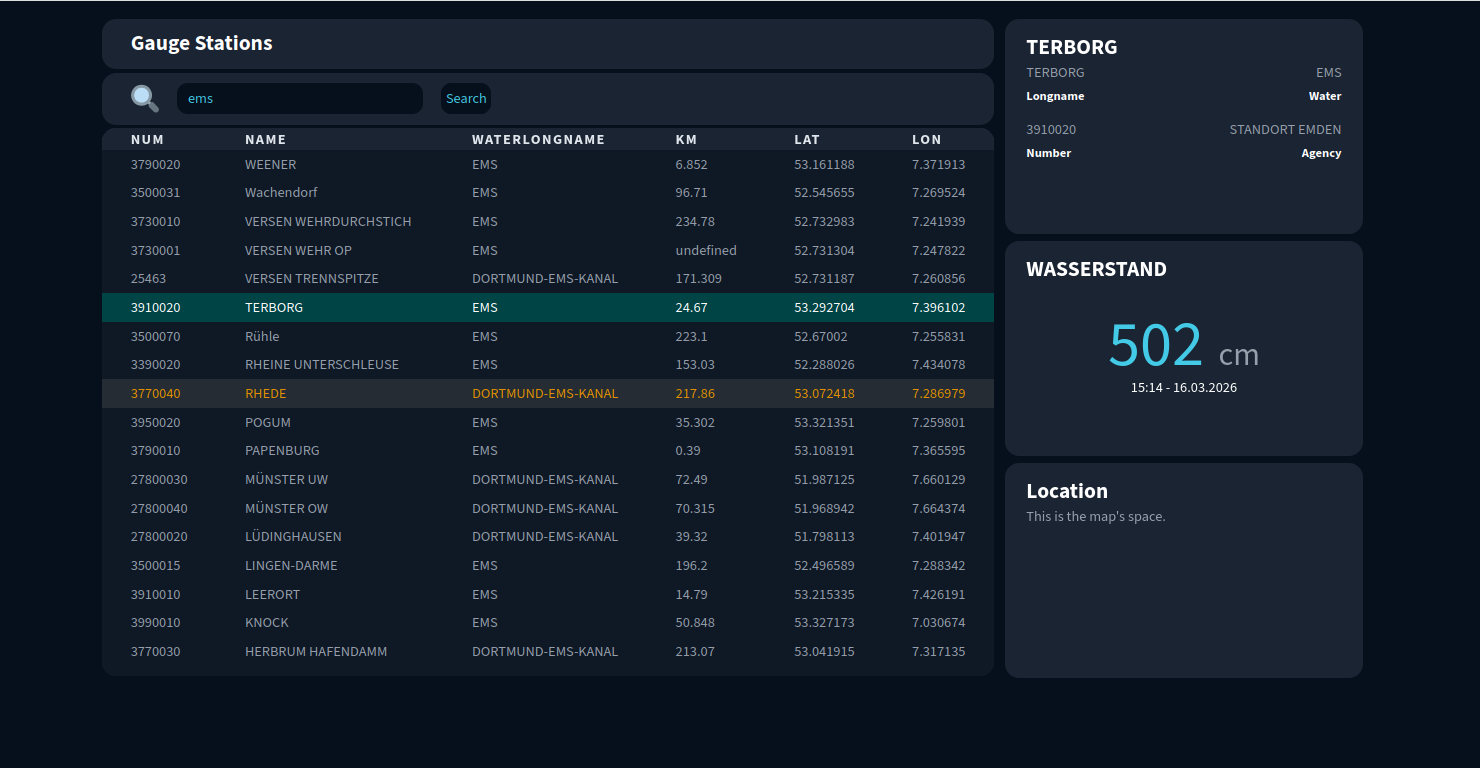
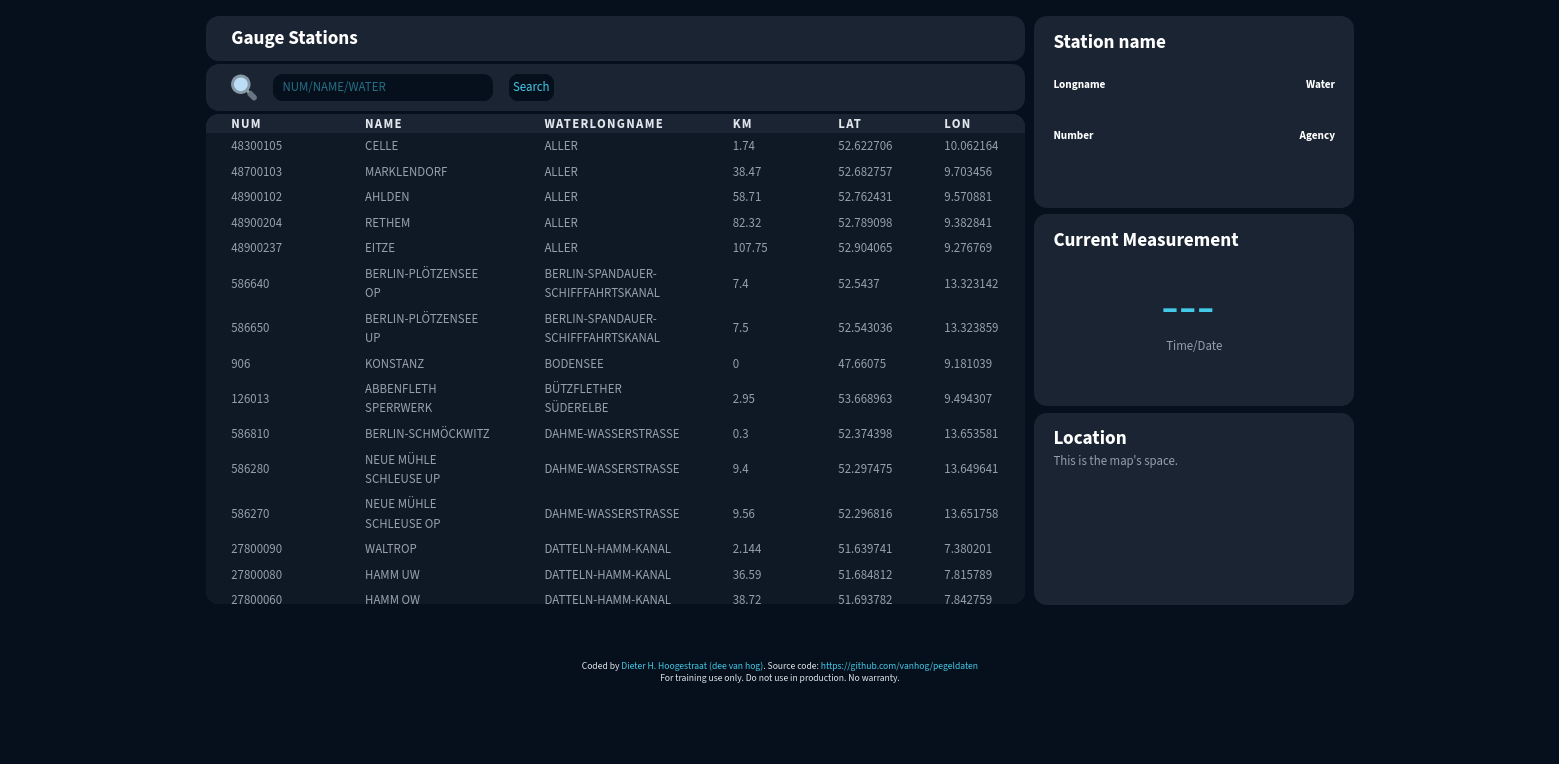
Disclaimer and Documentation update

diff --git a/dist/index.html b/dist/index.html
@@ -6,7 +6,7 @@
     <title>
       Hydrological Infrastructure Intelligence Dashboard - Training Project
     </title>
-    <link rel="stylesheet" href="./tw.css" />
+    <link rel="stylesheet" href="./styles/styles.css" />
   </head>
   <body class="hiid-body">
     <main class="flex flex-col justify-center items-center">
@@ -26,7 +26,7 @@
                 <div id="searchField" class="flex flex-row">
                   <label for="searchTerm" class="sr-only">Search</label>
                   <img
-                    src="./magnifying.svg"
+                    src="./assets/magnifying.svg"
                     class="w-8 inline me-5"
                     alt="Icon of a magnifying glass"
                   />
@@ -145,6 +145,23 @@
         </div>
       </div>
     </main>
-    <script type="module" src="./prod.js"></script>
+    <script type="module" src="/src/main.ts"></script>
+    <footer class="mt-12">
+      <h2 class="sr-only">Attributions</h2>
+      <div class="attribution mt-6">
+        Coded by
+        <a
+          href="https://github.com/vanhog"
+          target="_blank"
+          rel="noopener noreferrer"
+          >Dieter H. Hoogestraat (dee van hog)</a
+        >. Source code:
+        <a href="https://github.com/vanhog/pegeldaten"
+          >https://github.com/vanhog/pegeldaten</a
+        >
+
+        <p>For training use only. Do not use in production. No warranty.</p>
+      </div>
+    </footer>
   </body>
 </html>

diff --git a/dist/tw.css b/dist/tw.css
@@ -19,6 +19,8 @@
     --color-white: #fff;
     --spacing: 0.25rem;
     --container-5xl: 64rem;
+    --text-xs: 0.75rem;
+    --text-xs--line-height: calc(1 / 0.75);
     --text-sm: 0.875rem;
     --text-sm--line-height: calc(1.25 / 0.875);
     --text-base: 1rem;
@@ -51,9 +53,7 @@
     --color-hiid-text-primary: oklch(0.92 0.01 255);
     --color-hiid-text-muted: oklch(0.7 0.02 255);
     --color-hiid-text-glow: oklch(0.78 0.12 215);
-    --color-hiid-text-accent: oklch(
-    0.72 0.18 75
-  );
+    --color-hiid-text-accent: oklch(0.72 0.18 75);
   }
 }
 @layer base {
@@ -234,8 +234,17 @@
   .me-5 {
     margin-inline-end: calc(var(--spacing) * 5);
   }
+  .mt-6 {
+    margin-top: calc(var(--spacing) * 6);
+  }
+  .mt-12 {
+    margin-top: calc(var(--spacing) * 12);
+  }
   .mb-4 {
     margin-bottom: calc(var(--spacing) * 4);
+  }
+  .contents {
+    display: contents;
   }
   .flex {
     display: flex;
@@ -525,7 +534,16 @@
   }
   .current-measurement-time {
     text-align: center;
-    color: var(--color-white);
+    color: var(--color-hiid-text-muted);
+  }
+  .attribution {
+    text-align: center;
+    font-size: var(--text-xs);
+    line-height: var(--tw-leading, var(--text-xs--line-height));
+    color: var(--color-hiid-text-primary);
+  }
+  .attribution a {
+    color: var(--color-hiid-text-glow);
   }
 }
 @property --tw-border-spacing-x {

diff --git a/index.html b/index.html
@@ -146,5 +146,22 @@
       </div>
     </main>
     <script type="module" src="/src/main.ts"></script>
+    <footer class="mt-12">
+      <h2 class="sr-only">Attributions</h2>
+      <div class="attribution mt-6">
+        Coded by
+        <a
+          href="https://github.com/vanhog"
+          target="_blank"
+          rel="noopener noreferrer"
+          >Dieter H. Hoogestraat (dee van hog)</a
+        >. Source code:
+        <a href="https://github.com/vanhog/pegeldaten"
+          >https://github.com/vanhog/pegeldaten</a
+        >
+
+        <p>For training use only. Do not use in production. No warranty.</p>
+      </div>
+    </footer>
   </body>
 </html>

diff --git a/styles/styles.css b/styles/styles.css
@@ -70,6 +70,12 @@
   }
 
   .current-measurement-time {
-    @apply text-center text-white;
+    @apply text-center text-hiid-text-muted;
+  }
+  .attribution {
+    @apply text-xs text-center text-hiid-text-primary;
+  }
+  .attribution a {
+    @apply text-hiid-text-glow;
   }
 }

diff --git a/README.md b/README.md
@@ -1,5 +1,7 @@
 # Gauge Stations Dashboard (Pegeldaten)
 
+**For training use only. Do not use in production. No warranty.**
+
 This is a free-style training project created as part of the OpenCampus Web Development Program 2025.
 
 ## Table of contents
@@ -33,11 +35,11 @@ The application should be able to:
   - Current measurements in a second drawer
 - Reserve a third drawer for future map integration
 - Provide search functionality across:
- 	 - short name
-  	- long name
-  	- water short name
-  	- water long name
-  	- station number
+  - short name
+    - long name
+    - water short name
+    - water long name
+    - station number
 
 ### Screenshot
 
@@ -45,7 +47,7 @@ The application should be able to:
 
 ### Links
 
-- Solution URL: https://github.com/vanhog/pegeldaten  
+- Solution URL: https://github.com/vanhog/pegeldaten
 - Live Site URL: https://vanhogs-pegeldaten.netlify.app/
 
 ## My process
@@ -91,7 +93,6 @@ Next steps:
 
 ## Author
 
-- Website: https://www.hoogestraat.com  
-- Frontend Mentor: https://www.frontendmentor.io/profile/vanhog  
+- Website: https://www.hoogestraat.com
+- Frontend Mentor: https://www.frontendmentor.io/profile/vanhog
 - GitHub: https://github.com/vanhog
-
